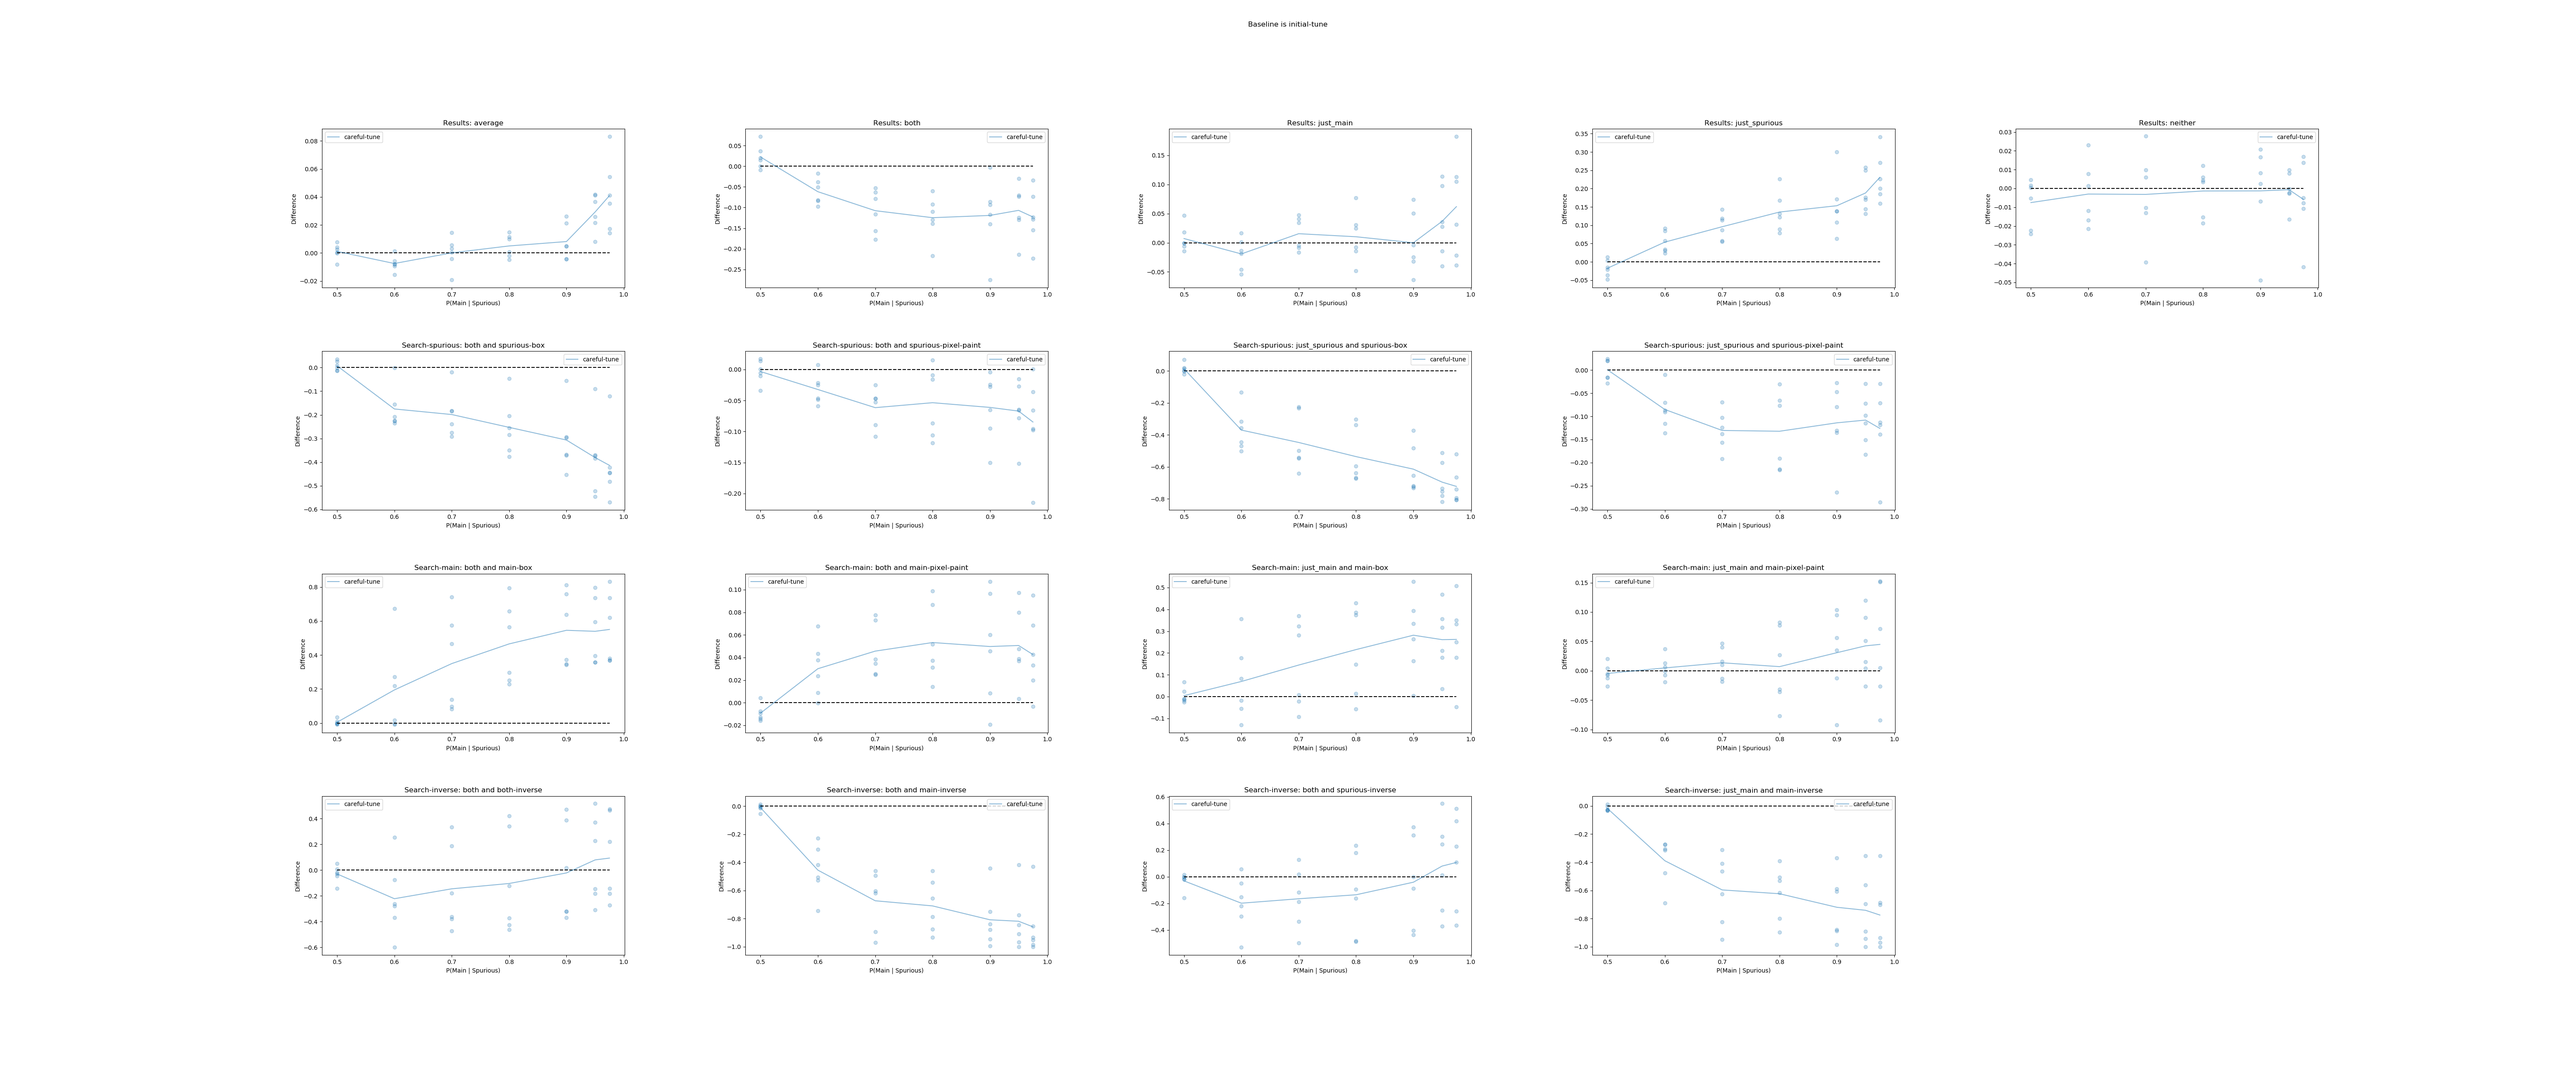
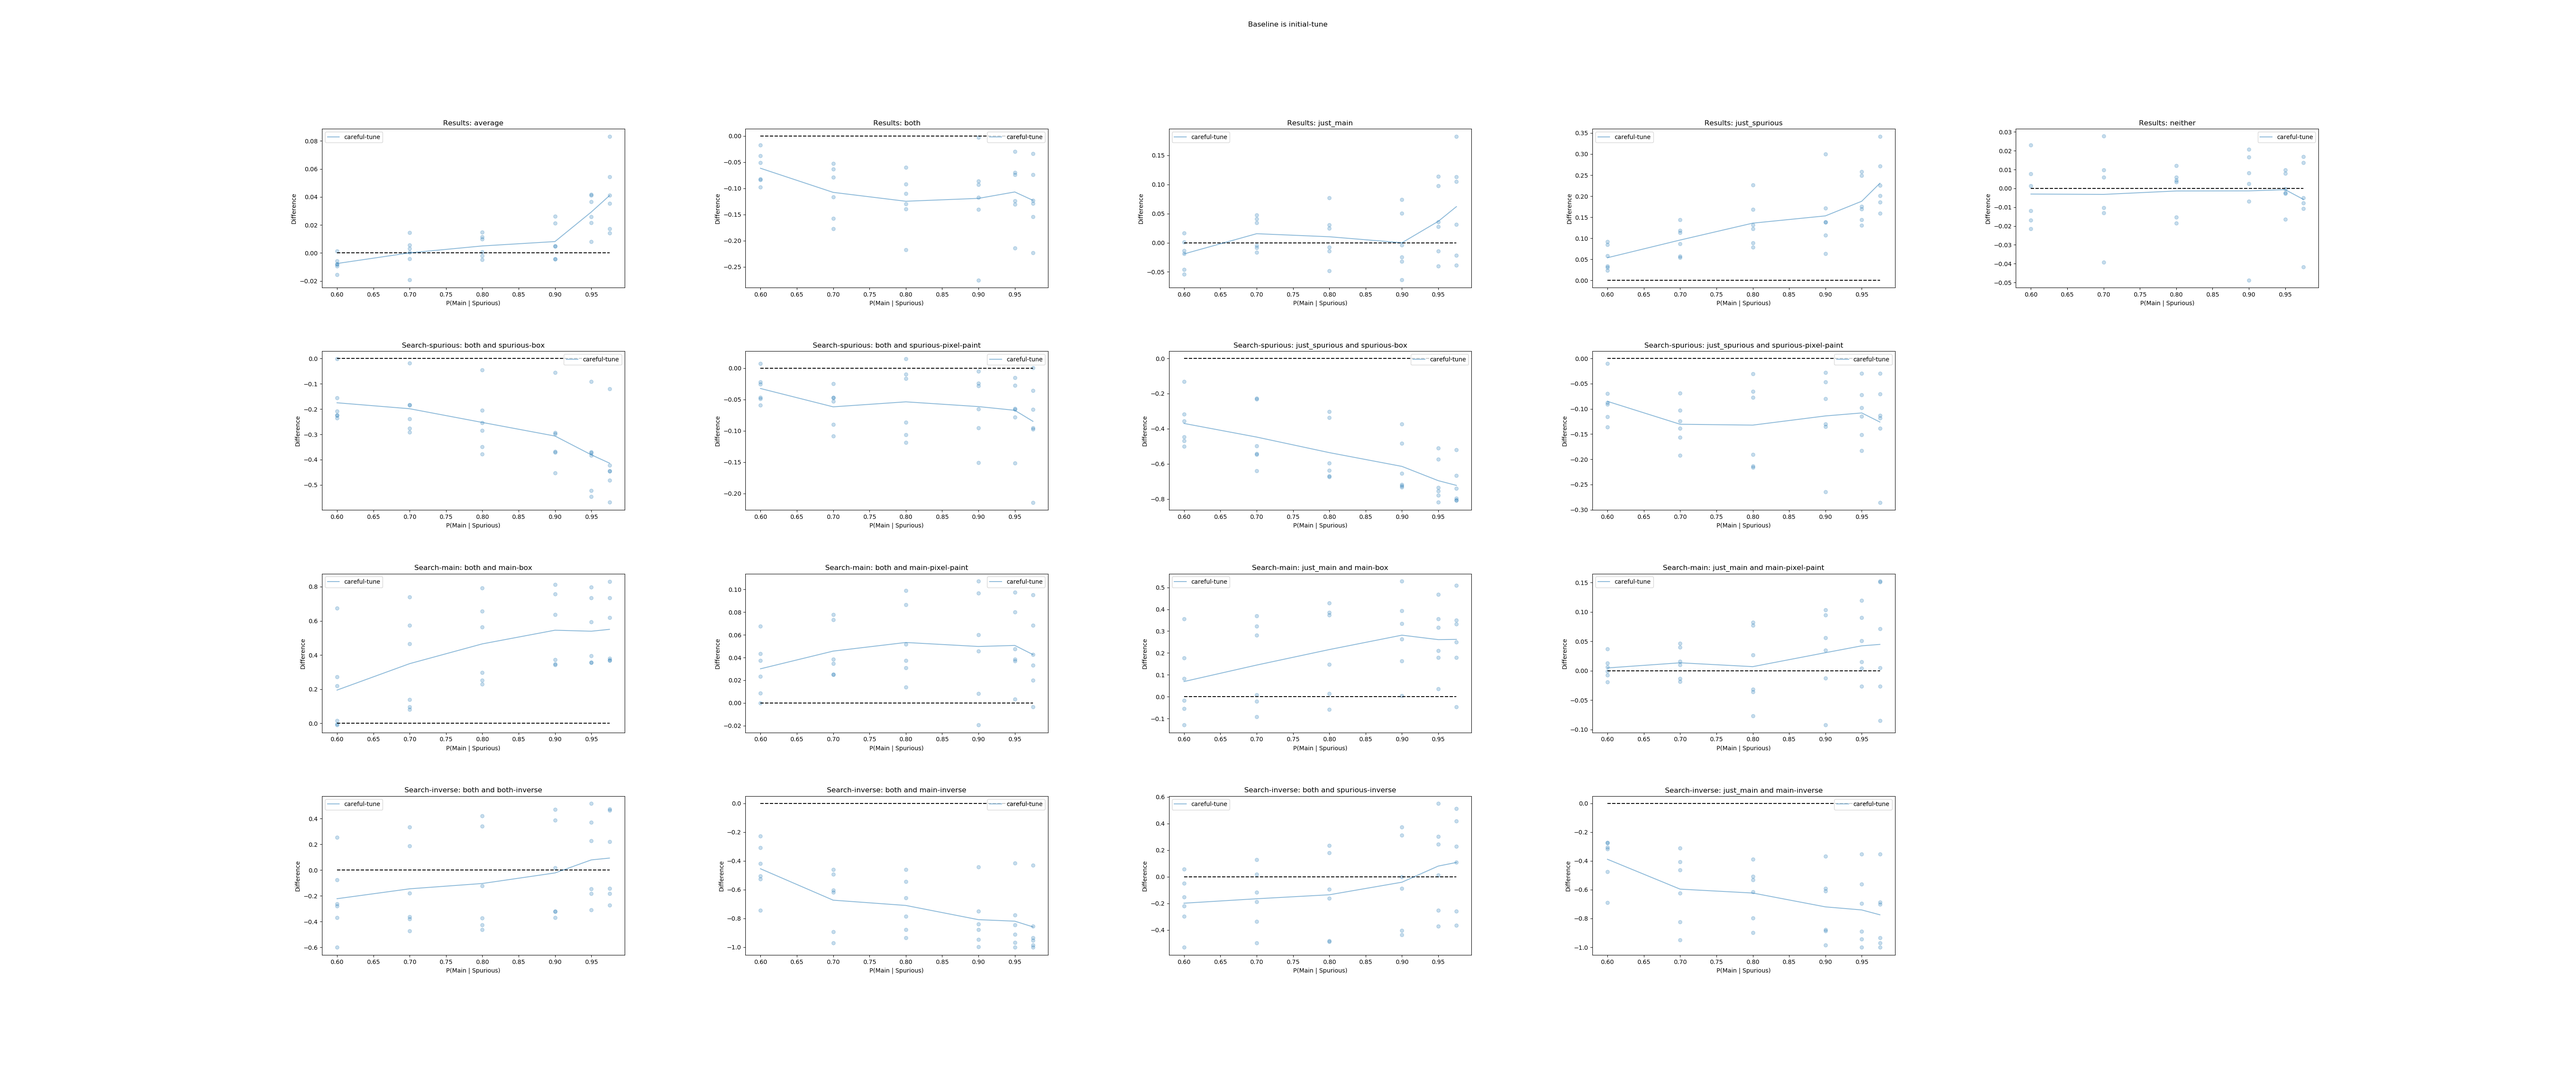
Updated to exclude p=0.5 where there is no difference between the conditions

diff --git a/COCO-controlled/Analysis.py b/COCO-controlled/Analysis.py
@@ -111,5 +111,5 @@ if __name__ == '__main__':
             except FileNotFoundError:
                 pass
     
-    run(results, ['0.5', '0.6', '0.7', '0.8', '0.9', '0.95', '0.975'], ['careful-tune'], 'initial-tune', title = 'main.png')
+    run(results, ['0.6', '0.7', '0.8', '0.9', '0.95', '0.975'], ['careful-tune'], 'initial-tune', title = 'main.png')
     run(results, ['0.8', '0.9', '0.95', '0.975'], ['both-tune', 'both-paint-tune', 'careful-tune', 'careful-paint-tune'], 'initial-tune', title = 'carefulVSboth.png')
